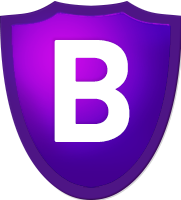
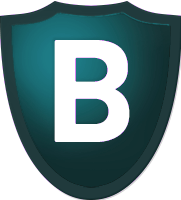
Changes from FC meeting (#157)

diff --git a/frontend/src/Components/Badge.js b/frontend/src/Components/Badge.js
@@ -81,7 +81,7 @@ export const icons = {
   // FC Roles
   "HQ-FC": { type: "shield", color: "blue", letter: "H", name: "HQ FC" },
   TRAINEE: { type: "shield", color: "neutral", letter: "T", name: "Training FC" },
-  TRAINER: { type: "shield", color: "yellow", letter: "T", name: "FC Trainer" },
+  TRAINER: { type: "shield", color: "purple", letter: "T", name: "FC Trainer" },
   COUNCIL: { type: "image", href: require("../Pages/Guide/badges/c.png"), name: "Council" },
   // Specalist Badges
   LOGI: { type: "shield", color: "green", letter: "L", name: "Logi Specialist" },
@@ -91,7 +91,7 @@ export const icons = {
     name: "Banned from flying logi",
   },
   "RETIRED-LOGI": { type: "shield", color: "red", letter: "L", name: "Retired Logi Specialist" },
-  BASTION: { type: "shield", color: "purple", letter: "B", name: "Bastion Specialist" },
+  BASTION: { type: "shield", color: "cyan", letter: "B", name: "Bastion Specialist" },
   WEB: { type: "shield", color: "cyan", letter: "W", name: "Web Specialist" },
   // Other
   ELITE: { type: "shield", color: "yellow", letter: "E", name: "Elite" },

diff --git a/frontend/src/Pages/Guide/Badges.js b/frontend/src/Pages/Guide/Badges.js
@@ -239,7 +239,7 @@ export function BadgeData() {
             Permitted to use TDF comms to run fleets and to take a fleet into Headquarters, Assault
             and Vanguard sites with SRP cover.
           </BadgeButton>
-          <BadgeButton name="FC Trainer" img={"./trainer.png"}>
+          <BadgeButton name="FC Trainer" img={"./Trainer.png"}>
             Permitted to use TDF comms to run fleets and to take a fleet into Headquarters, Assault
             and Vanguard sites with SRP cover. <br />
             <br />

diff --git a/frontend/src/App/theme.js b/frontend/src/App/theme.js
@@ -73,7 +73,7 @@ const theme = {
         green: "#19b915",
         blue: "#0076c2",
         yellow: "#d2bd00",
-        purple: "#8b00c7",
+        purple: "#aa88ff",
         neutral: "#4b4b4b",
         cyan: "#1eabaa",
         text: "#ffffff",
@@ -145,7 +145,7 @@ const theme = {
         green: "#21861e",
         blue: "#105b8b",
         yellow: "#968912",
-        purple: "#69118e",
+        purple: "#aa88ff",
         neutral: "#777777",
         cyan: "#1c9493",
         text: "#cccccc",
